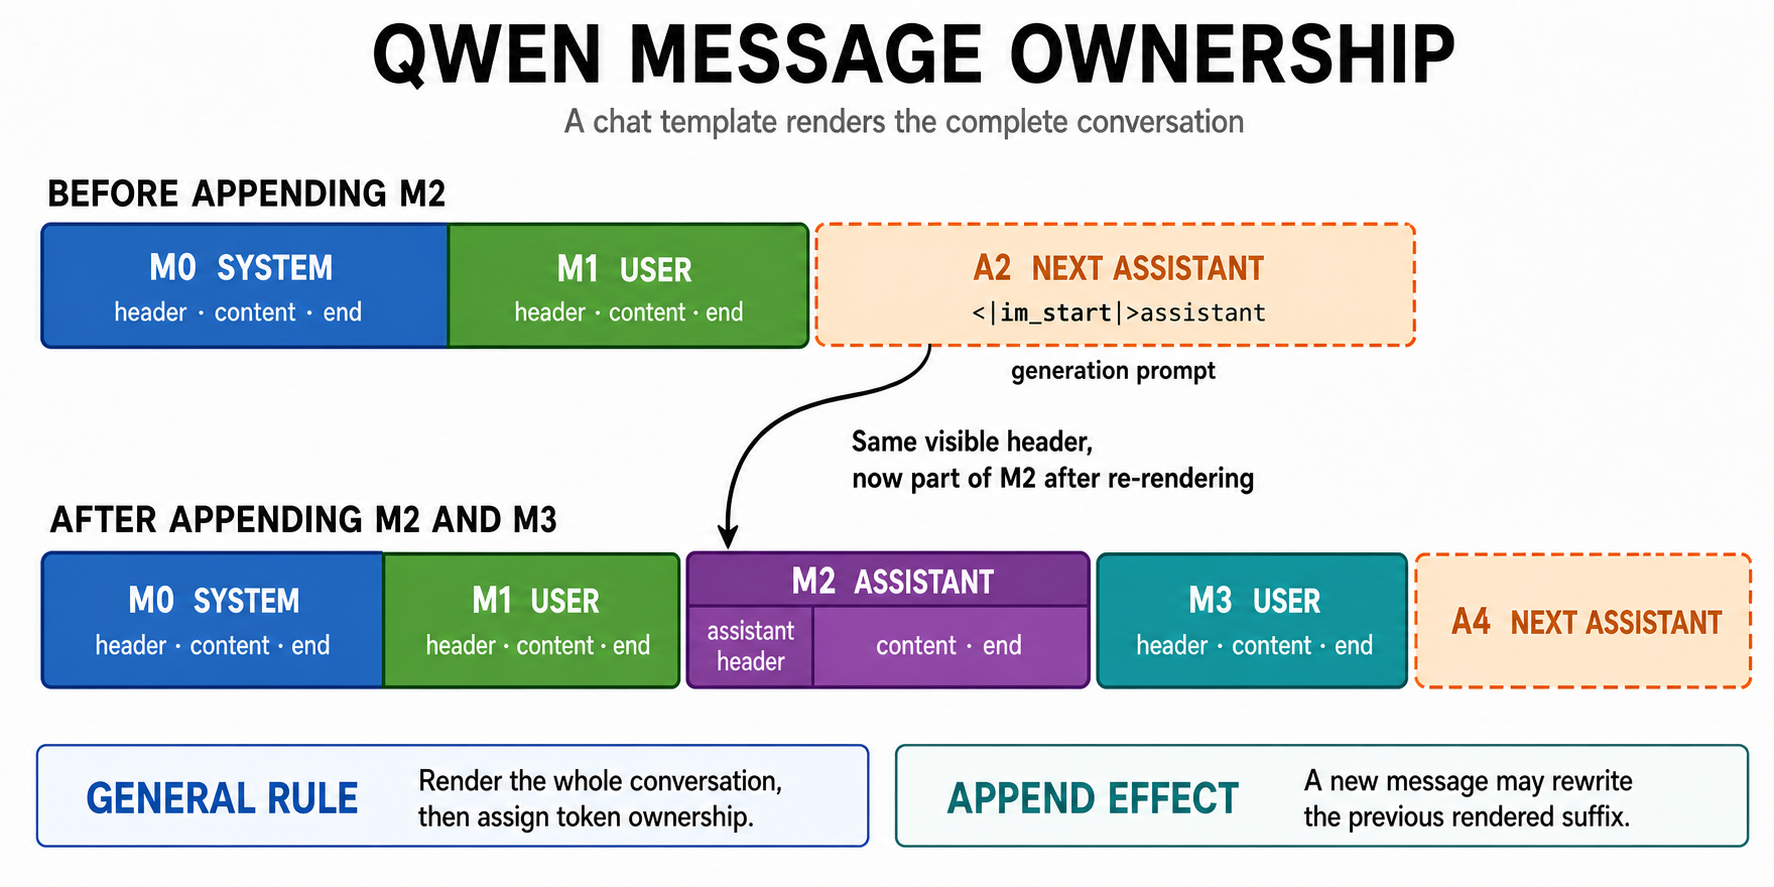
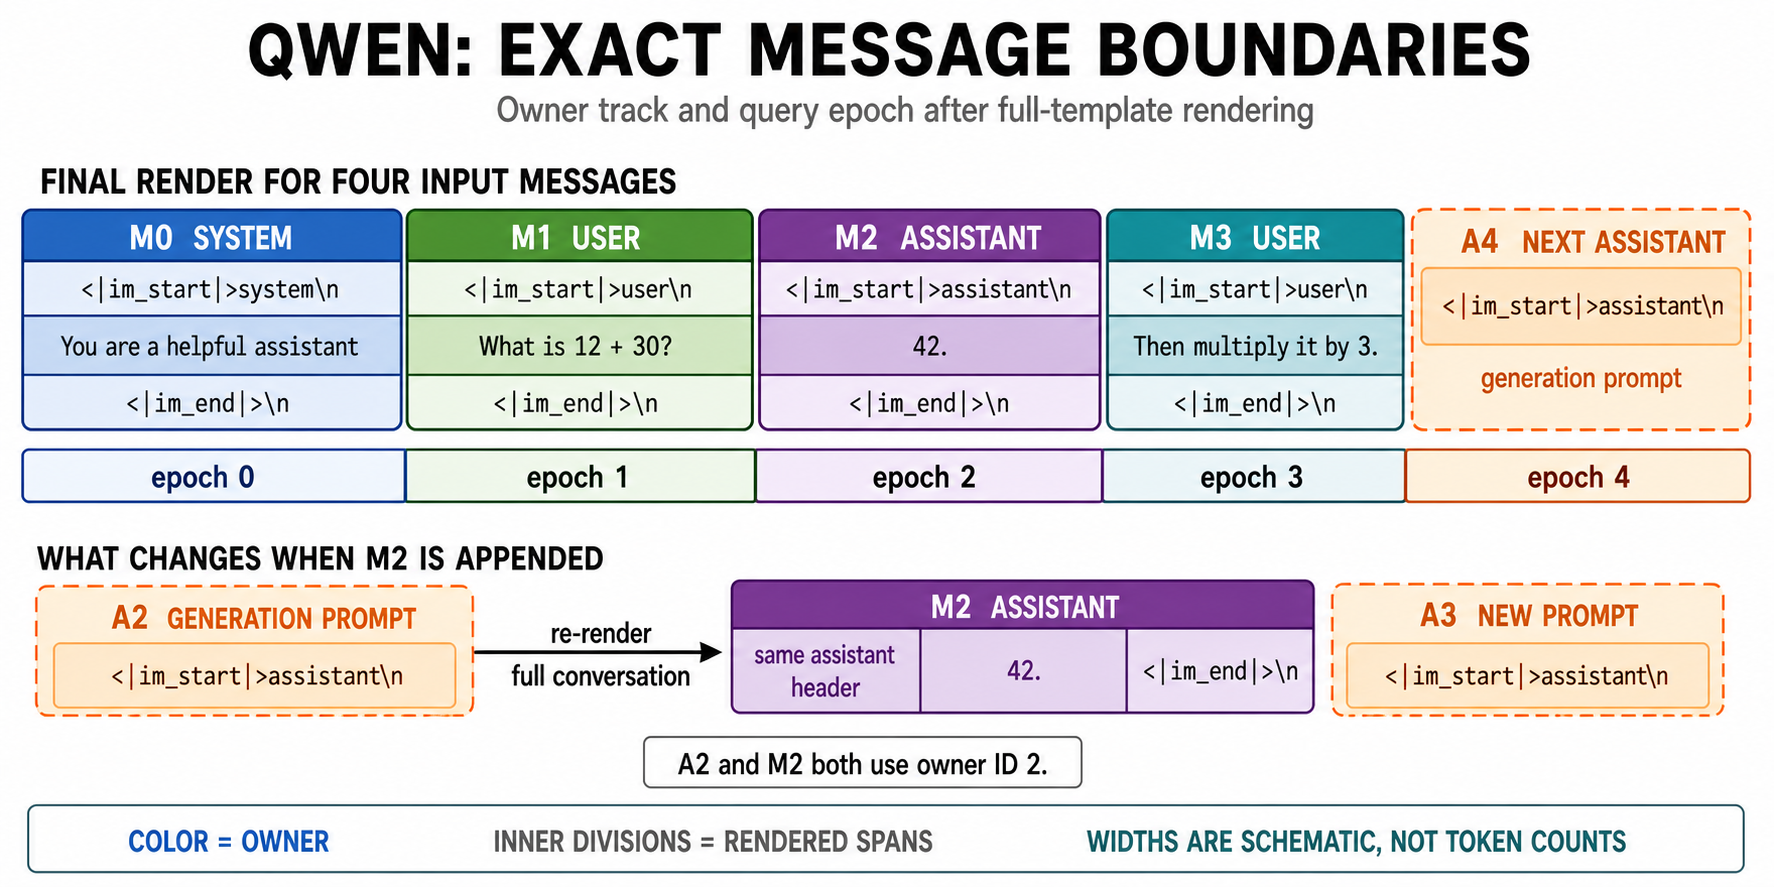
docs: detail Qwen message boundaries

diff --git a/docs/context-system/README.md b/docs/context-system/README.md
@@ -15,35 +15,65 @@ whole conversation, so delimiters, role headers, generation prompts, and even
 earlier text may change when a new message is appended. Mini-SGLang therefore
 builds two tracks over the final token stream:
 
-- **Owner:** the public message that owns each rendered token. Drop removes tokens
-  by owner.
-- **Query epoch:** the newest message present when each token becomes part of the
-  conversation. A Drop event uses this track to determine its exact activation
-  position.
+- **Owner:** the public message, or synthetic next-assistant prompt, that owns each
+  rendered token. Drop removes message-owned tokens by owner ID.
+- **Query epoch:** the prefix-construction step at which each token enters the
+  conversation. Message `M_i` uses epoch `i`; the final generation prompt uses
+  epoch `N = len(messages)`. A Drop event uses this track to determine its exact
+  activation position.
 
 The general partitioning flow is:
 
 1. Keep the submitted messages in order and preserve their public IDs through
    request normalization.
-2. Render the complete conversation with the selected chat template. Do not
-   tokenize each message independently and concatenate the results.
-3. Assign every span in the final render to the message that produced it. Static
-   template text follows the renderer's deterministic boundary policy, while the
-   final generation prompt belongs to the next assistant epoch.
-4. Tokenize the canonical render once and project span ownership onto its tokens.
-   Comparing consecutive prefix renders supplies the query epochs: a stable prefix
-   keeps its earlier epoch, while a newly emitted or rewritten suffix enters the
-   current epoch.
+2. For each message index `i`, render the complete prefix `messages[:i+1]` with
+   the selected chat template and without a generation prompt. Never tokenize
+   messages independently and concatenate the results.
+3. Compare each prefix render with the previous one by exact token ID. The longest
+   common prefix identifies the part whose history is unchanged; a non-overlapping
+   longest common suffix is also recorded for conservative owner attribution.
+4. Render the complete message list again with the generation prompt. This is the
+   canonical full token stream, and the prompt uses the synthetic next-assistant
+   ID `N`, where `N = len(messages)`.
+5. Derive final message ownership from the canonical render when exact rendered
+   provenance is available, tokenize that render once, and project the rendered
+   ownership spans onto token offsets.
 
-Only tokens actually emitted by the chat renderer belong to a message. A raw JSON
-field omitted by the selected template contributes no tokens and therefore has
-nothing to Drop. A message may own multiple non-contiguous token ranges.
+### Detailed boundary rules
+
+The owner track and query-epoch track answer different questions and are built
+with different rules:
+
+- **Provisional owner track during prefix comparison:** exact stable prefix and
+  suffix tokens retain their previous owners. Tokens in the rewritten middle are
+  assigned to the newly appended message. This is a conservative fallback for a
+  template that rewrites earlier output.
+- **Query-epoch track:** only the exact stable prefix retains its earlier epoch.
+  Every token from the first changed position onward receives the new message
+  epoch, including a suffix whose token values happen to match again. This keeps
+  the epoch sequence monotonic.
+- **Canonical owner track:** rendered output traced to a message object uses that
+  message's public ID. Static text before the first traceable message belongs to
+  `M0`; unowned template text after that follows the preceding owner. The final
+  generation prompt belongs to synthetic owner `A_N`.
+- **Character-to-token projection:** the canonical render is tokenized once with
+  character offsets. If one token crosses an ownership boundary, its first
+  character decides the owner. A zero-width token inherits the previous token's
+  owner.
+- **Drop ranges:** consecutive tokens with the same owner form a half-open
+  `[start, end)` range. One message may own several non-contiguous ranges. Dropping
+  that message removes every one of those ranges.
+
+Only text emitted by the chat template enters either track. An omitted JSON field
+or an empty message that renders nothing owns no tokens. Ownership is based on
+rendered provenance rather than content matching, so repeated message text does
+not make the boundary ambiguous.
 
 ### Qwen example
 
-The no-thinking, no-tools path of Qwen's
+Qwen's
 [ChatML-style template](https://huggingface.co/Qwen/Qwen-tokenizer/blob/main/tokenizer_config.json)
-emits one complete block per message:
+emits this block for each message:
 
 ```text
 <|im_start|>{role}\n{content}<|im_end|>\n
@@ -55,33 +85,54 @@ With a generation prompt enabled, it then appends:
 <|im_start|>assistant\n
 ```
 
-For these two input messages:
+Consider this request:
 
-```text
-M0  system  Be concise.
-M1  user    What is KV cache?
+```json
+{
+  "messages": [
+    {"role": "system", "content": "You are a helpful assistant"},
+    {"role": "user", "content": "What is 12 + 30?"},
+    {"role": "assistant", "content": "42."},
+    {"role": "user", "content": "Then multiply it by 3."}
+  ]
+}
 ```
 
-the rendered ownership is:
+Using `\n` below to display each actual newline, the canonical render is divided
+as follows:
 
 ```text
-M0  <|im_start|>system\nBe concise.<|im_end|>\n
-M1  <|im_start|>user\nWhat is KV cache?<|im_end|>\n
+owner  epoch  rendered span
+M0     0      <|im_start|>system\nYou are a helpful assistant<|im_end|>\n
+M1     1      <|im_start|>user\nWhat is 12 + 30?<|im_end|>\n
+M2     2      <|im_start|>assistant\n42.<|im_end|>\n
+M3     3      <|im_start|>user\nThen multiply it by 3.<|im_end|>\n
+A4     4      <|im_start|>assistant\n
+```
+
+Each `M0`-`M3` range includes its role header, exact content, end marker, and
+trailing newline. `A4` contains only the final generation prompt and is not a
+submitted message.
+
+![Exact Qwen owner and query-epoch boundaries for four messages](assets/qwen-message-token-ownership.png)
+
+The append effect is easiest to see one step earlier. With only `M0` and `M1`, the
+render ends with generation prompt `A2`:
+
+```text
 A2  <|im_start|>assistant\n
 ```
 
-`A2` is the synthetic next-assistant epoch, not a third submitted message. If the
-assistant reply is later appended as public message `M2`, the same visible
-assistant header becomes the beginning of `M2`'s rendered block. Its numeric owner
-remains `2` by design. A following user message `M3` produces a new generation
-prompt owned by `A4`.
+When the assistant reply is appended as public message `M2`, the complete
+conversation is rendered again. The same visible assistant header is now the
+start of `M2`, followed by `42.<|im_end|>\n`, and a new `A3` generation prompt is
+added. `A2` and `M2` both use numeric owner ID `2` by design. Appending `M3` then
+produces the final `A4` prompt shown above.
 
-![Qwen message ownership before and after appending messages](assets/qwen-message-token-ownership.png)
-
-This is why adding a message cannot be modeled as appending that message's
-independently tokenized content. The complete conversation is rendered again;
-stable prefix regions retain their history, while any rewritten suffix is
-repartitioned from the new render.
+This is why a new message cannot be represented by independently tokenizing only
+its content and appending those tokens. The template may extend or rewrite its
+previous suffix, so Mini-SGLang re-renders the conversation and recomputes the
+boundary tracks from the resulting full stream.
 
 ## Drop semantics
 
